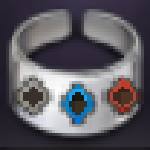
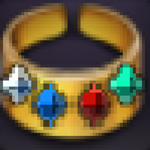
update

diff --git a/public/index.html b/public/index.html
@@ -1090,22 +1090,33 @@
                 );
             }
 
+            // 1. 定義自訂的寶石名稱選單 (依序對應 i = 0, 1, 2...)
+            const gemNames = ['鑽石寶石', '藍寶石', '紅寶石', '綠寶石',];
+
             panel.innerHTML += `<div style="border-top:0.5px solid var(--border);padding-top:8px;margin-top:4px;">
-                ${equippedState[type].gems.map((gem, i) => `
-                <div style="margin-bottom:6px;">
-                    <span style="font-size:11px;color:#888;">寶石 ${i+1}</span>
-                    ${gem.map((g, j) => `
-                    <div class="refine-row">
-                        <select style="flex:1;font-size:12px;" onchange="applyGem('${type}',${i},${j},'stat',this.value)">
-                            <option value="">無</option>
-                            ${['atk','def'].map(s =>
-                                `<option value="${s}" ${g.stat===s?'selected':''}>${labels[s]}</option>`
-                            ).join('')}
-                        </select>
-                        <input type="number" class="base-input" style="width:60px;" value="${g.val||''}"
-                            onchange="applyGem('${type}',${i},${j},'val',this.value)">
+                <div style="display:grid;grid-template-columns:1fr 1fr;gap:6px;">
+                    ${equippedState[type].gems.map((gem, i) => `
+                    <div style="background:rgba(255,255,255,0.03);border:0.5px solid var(--border);border-radius:6px;padding:6px;">
+                        ${/* 👈 這裡用 gemNames[i] 取得對應名稱；如果超過長度就回傳預設名稱 */''}
+                        <span style="font-size:11px;color:#888;display:block;margin-bottom:4px;">
+                            ${gemNames[i] || `寶石 ${i+1}`}
+                        </span>
+                        
+                        ${/* 強制第一格固定為 ATK */''}
+                        <div class="refine-row" style="display:flex;align-items:center;gap:6px;margin-bottom:4px;">
+                            <span style="font-size:12px;width:36px;color:#ccc;">${labels['atk']}</span>
+                            <input type="number" class="base-input" style="flex:1;" placeholder="0" value="${gem[0]?.val || ''}"
+                                onchange="applyGem('${type}',${i},0,'stat','atk'); applyGem('${type}',${i},0,'val',this.value)">
+                        </div>
+
+                        ${/* 強制第二格固定為 DEF */''}
+                        <div class="refine-row" style="display:flex;align-items:center;gap:6px;">
+                            <span style="font-size:12px;width:36px;color:#ccc;">${labels['def']}</span>
+                            <input type="number" class="base-input" style="flex:1;" placeholder="0" value="${gem[1]?.val || ''}"
+                                onchange="applyGem('${type}',${i},1,'stat','def'); applyGem('${type}',${i},1,'val',this.value)">
+                        </div>
                     </div>`).join('')}
-                </div>`).join('')}
+                </div>    
             </div>`;
             }
         }

diff --git a/api/data.js b/api/data.js
@@ -259,11 +259,13 @@ export default function handler(req, res) {
         ],
         
         bracelet: [
-            { name: "未知的純銀手環", img: "/accessory/bracelet/1.png", gemSlots: 3, gemStatCount: 2 }, 
+            { name: "君主的完整黑曜石手環", img: "/accessory/bracelet/5.png", stats: { atk: 1000, crit: 5 }, gemSlots: 4, gemStatCount: 2 },
+            { name: "未知的黃金手環"     , img: "/accessory/bracelet/1.png", gemSlots: 4, gemStatCount: 2 }, 
         ],
 
         bracelet2: [
-            { name: "未知的純銀手環", img: "/accessory/bracelet/1.png", gemSlots: 3, gemStatCount: 2 }, 
+            { name: "君主的完整黑曜石手環", img: "/accessory/bracelet/5.png", stats: { atk: 1000, crit: 5 }, gemSlots: 4, gemStatCount: 2 },
+            { name: "未知的黃金手環"     , img: "/accessory/bracelet/1.png", gemSlots: 4, gemStatCount: 2 }, 
         ],
 
         compass: [